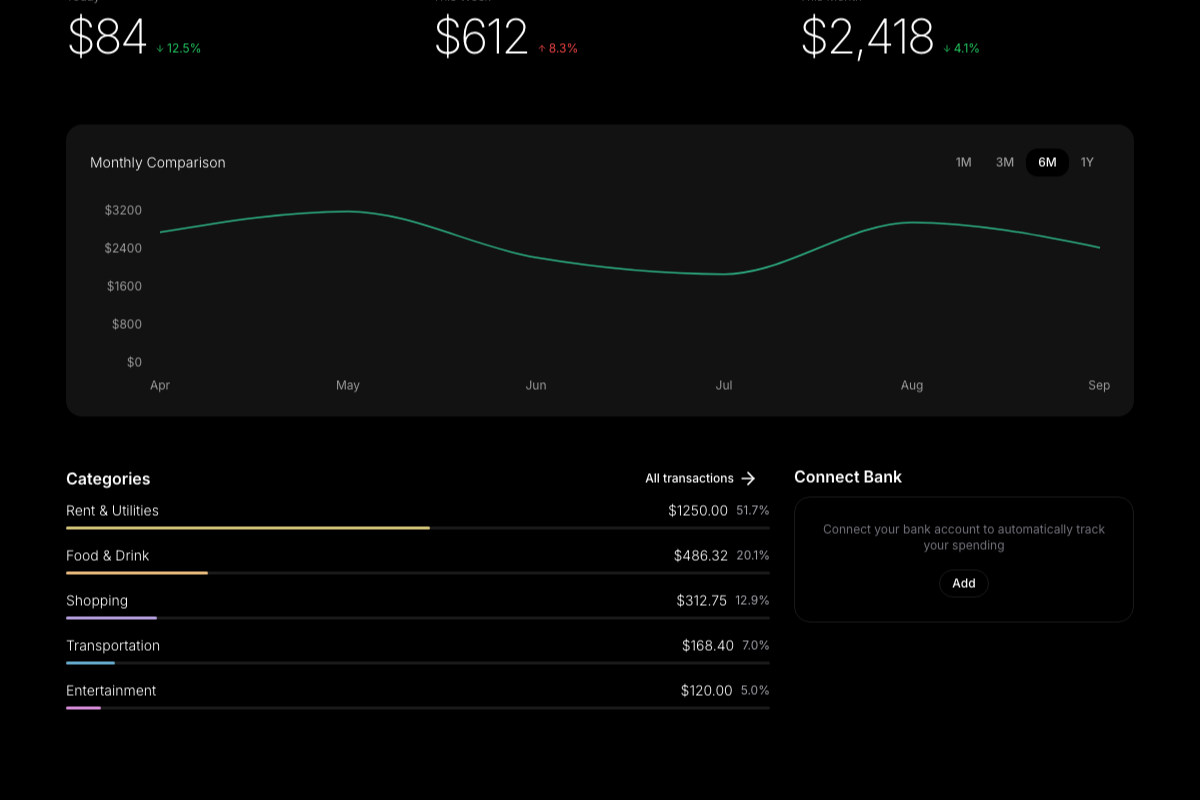
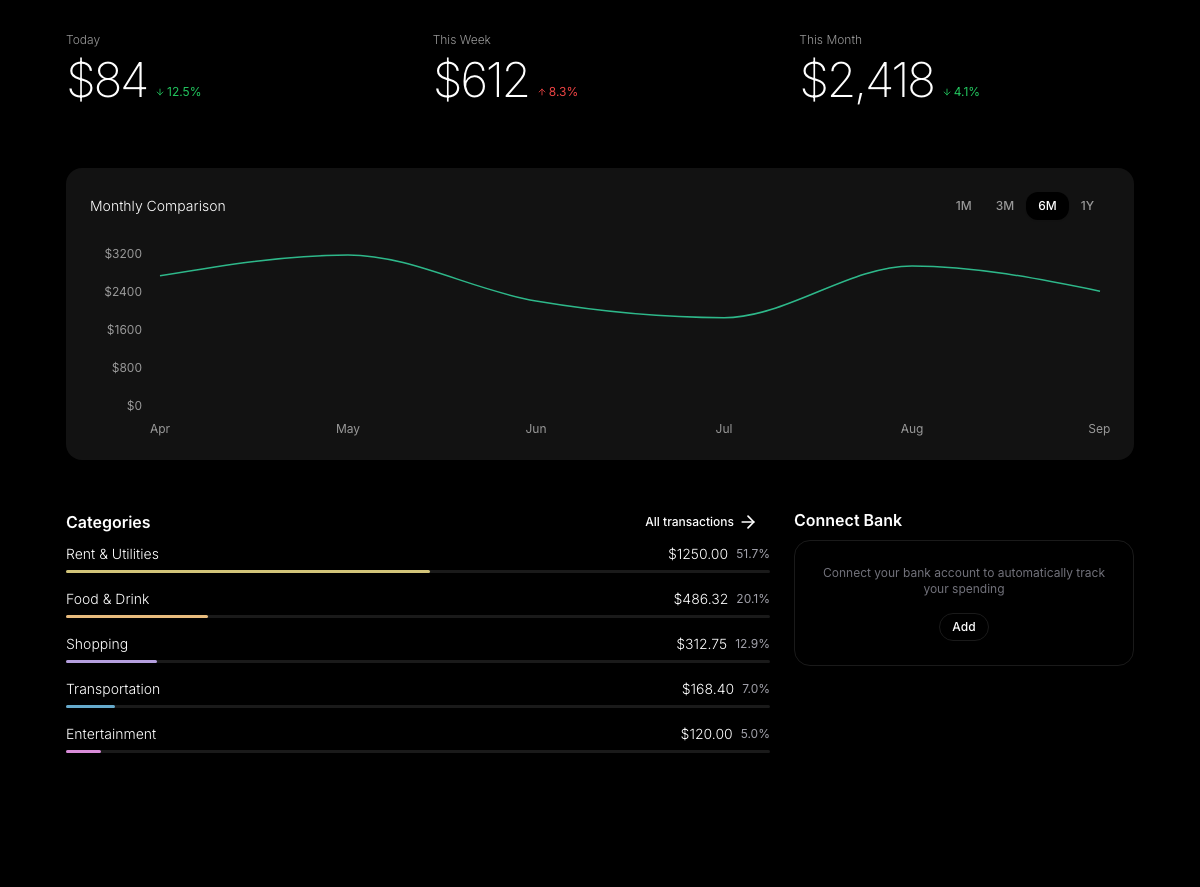
numbered and what i spent: the whole experience in pictures
numbered: landing, card page, profile, print page, wall, card maker, match
page and legend, captured from the dev server. what i spent: landing,
dashboard, transactions and subscription, the last three rendered from the
app's own components with sample data since the app is gone. A Markdown
picture becomes a figure with its alt text as the caption.

diff --git a/src/styles/global.css b/src/styles/global.css
@@ -91,6 +91,9 @@ body {
 .prose pre code { color: inherit; font-size: inherit; }
 .prose hr { margin-top: 2rem; border: 0; border-top: 1px solid var(--border); }
 .prose img { margin-top: 2rem; width: 100%; background: var(--card); }
+.prose figure { margin-top: 3rem; }
+.prose figure img { margin-top: 0; }
+.prose figcaption { margin-top: 0.75rem; font-family: var(--font-mono); font-size: 0.75rem; text-transform: uppercase; letter-spacing: 0.1em; color: var(--faint); }
 
 /* Shiki writes its theme background inline; code sits on the slab like everything else. */
 .prose .astro-code { background-color: var(--card) !important; }

diff --git a/src/content/work/numbered.md b/src/content/work/numbered.md
@@ -16,6 +16,8 @@ Stats sites show you the numbers from a game and stop there. numbered turns the 
 
 I built it in three weeks in September 2026. Riot rejected the production API key, so the site is offline for now. Details at the bottom.
 
+![The landing: the wordmark drawn in digits and a ring of cards turning](/work/numbered-landing.jpg)
+
 ## The card
 
 - Rank, region and queue on the banner. The champion splash is the art.
@@ -23,6 +25,10 @@ I built it in three weeks in September 2026. Riot rejected the production API ke
 - A playstyle label from six behaviour clusters fit over the crawled ladder.
 - The verdict from your last game, priced from the timeline. "Lost from ahead. 87% to win at 14:00. Biggest swing: the cloud dragon at 30:43, about a fifth of the game."
 - No rank estimates from a model. Riot policy prohibits them and I think the rule is right.
+
+![A player's card page: the live card, drag to spin, downloads for the front and back](/work/numbered-card.jpg)
+
+![The profile behind the card: record, the latest ruling, every game with its verdict and win chance curve](/work/numbered-profile.jpg)
 
 ## Prints and packs
 
@@ -32,6 +38,8 @@ I built it in three weeks in September 2026. Riot rejected the production API ke
 - Claiming your account grants a welcome pack of three prints from games you already won. Prints have no price and cannot be traded.
 - Every print has its own page. Pasting the link into a chat shows a rendered picture of the card.
 
+![A print's own page: an illustration rare of a Chinese-client player, the game it was printed from underneath](/work/numbered-print.jpg)
+
 ## Collection, shelf, wall
 
 - Your collection lists every print you hold, filterable by champion and rarity.
@@ -39,6 +47,10 @@ I built it in three weeks in September 2026. Riot rejected the production API ke
 - The wall is a directory of every claimed player, sorted by how many of their prints are held. Unclaimed players never appear in any index.
 - Sets group prints by season. The legend page names every part of a card.
 - The card maker at /make builds a card from any splash and shares it as a link. No account needed.
+
+![The wall: claimed players ranked by how many hold their card](/work/numbered-wall.jpg)
+
+![The card maker: a card from any splash, any foil, any words](/work/numbered-make.jpg)
 
 ## How it works
 
@@ -48,9 +60,13 @@ Each game timeline becomes a feature row with a version stamp, and re-extraction
 
 Player IDs never leave the server. Deleting a player cascades through every table, since Riot forwards GDPR requests. Raw match data lives in a Tigris bucket. The site runs on one k3s node with Argo CD deploying digest pinned images from CI.
 
+![A match page: the verdict, the win chance curve with every priced event on it, the two costliest deaths with the damage that killed you](/work/numbered-match.jpg)
+
 ## Design
 
 Warm concrete grays, no border radius, Geist 300 for display type, monospace uppercase labels, red as the only signal colour. Dark by default with a light theme on request. Cards keep their dark stock in both.
+
+![The legend: every part of a print named, and the odds of each tier](/work/numbered-legend.jpg)
 
 ## What happened
 

diff --git a/src/content/work/whatispent.md b/src/content/work/whatispent.md
@@ -14,6 +14,8 @@ order: 3
 
 Budgeting apps want you to categorize, plan and set goals. I wanted three numbers: what I spent today, this week and this month, pulled from my bank so I never type anything. Sign in with Google, link a bank, pay $4.99 a month. It ran from April 2025 to July 2026.
 
+![The landing page](/work/whatispent-landing.jpg)
+
 ## Features
 
 - A dashboard with today, this week and this month, and a chart comparing the last few months.
@@ -24,6 +26,8 @@ Budgeting apps want you to categorize, plan and set goals. I wanted three number
 - A free trial, then Stripe Checkout and the customer portal for everything after.
 - An admin panel.
 
+![The transaction list: merchant, category, account, amount, grouped by month](/work/whatispent-transactions.jpg)
+
 ## How it works
 
 Plaid Link runs in the browser and returns a public token. The server exchanges it for an access token and encrypts it before writing to the database. The plaintext token is never stored.
@@ -31,6 +35,8 @@ Plaid Link runs in the browser and returns a public token. The server exchanges 
 Transactions come through Plaid's sync endpoint with a cursor per institution, so every pull is a diff of added, modified and removed rows. Plaid webhooks fire when an institution has updates and the sync runs on its own. Stripe webhooks keep the subscription status on the user current and the pages gate on it.
 
 Everything hangs off the user with cascading deletes. Removing an account removes its institutions, accounts and transactions in one statement.
+
+![The subscription page: one plan, Stripe's customer portal behind the button](/work/whatispent-subscription.jpg)
 
 ## What happened
 
